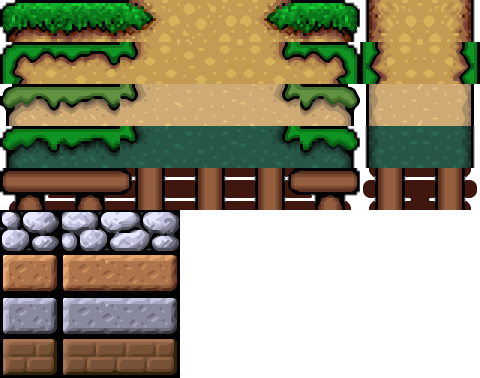
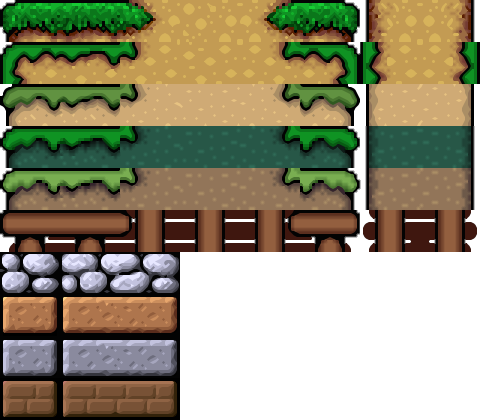
Added level6

diff --git a/levels.js b/levels.js
@@ -44,7 +44,7 @@ var level1 = {
     ],
     startPosition: {x: 2, y: 2},
     backgroundType: 4,
-    terrainType: 6,
+    terrainType: 7,
     pipeColor: 0,
     liquidType: 0,
     tileTint: 0,
@@ -70,7 +70,7 @@ var level2 = {
          "░░░░░░░░░░░░░░░░░░▓▓▓░░░░░▓▓▓▓▓░░░░░░░░░   ░░░░░░░░▓▓▓░░░▓▓▓░░░░░░░░░░░░░░░░░░░░▓▓▓░░▓▓▓▓░░▓▓▓░░░░▓▓▓▓▓▓▓░░░░░░░░░░░░▓▓▓▓░░░░░░░░▓▓▓░░░░▓░░░░░░░░░░░░░░░░▓▓▓▓▓▓▓▓░░░░░░░░░░░░░░░░░░░░░░░░░░░░░░░░░░░░░░░░░░░░░  │┇    │┇│┇  │┇    │┇│┇   ░",  
     ],
     startPosition: {x: 2, y: -1},
-    terrainType: 6,
+    terrainType: 7,
     backgroundType: 4,
     pipeColor: 4,
     liquidType: 1,
@@ -133,7 +133,7 @@ level3 = {
       ],
     startPosition: {x: 3, y: 8},
     backgroundType: 5,
-    terrainType: 7,
+    terrainType: 8,
     pipeColor: 1,
     liquidType: 2,
     tileTint: 0,
@@ -162,7 +162,7 @@ level3 = {
       ],
     startPosition: {x: 7, y: 3},
     backgroundType: 5,
-    terrainType: 7,
+    terrainType: 8,
     pipeColor: 1,
     liquidType: 2,
     tileTint: 0,
@@ -178,10 +178,10 @@ level3 = {
       "                                                                                                 ♥             ♠                               ○                     ",
       "                                                                                                 □             ◙                            ○  ○                     ",
       "                                      ♠                              ○○○○                                                                ○  ○  ○                     ",
-      "                          ○○○        ◙◙◙                                           ₼   ?  ♠       ♣  %#                                  ○  ○                        ",
+      "                          ○○○        ◙◙◙                                           ₼      ♠       ♣  %#                                  ○  ○                        ",
       "                                                            %#                     XX ╒╕  ◙◙      □  %%#                                 ○     ₼                     ",
       "                                   ▐         ▐ ₼            %#               ₼        │┇             %%#       ₼                            ₼  X              ▐      ",
-      "      ▐             ▐ ●ψ   ▐       ▐         ▐ X  ₼  ψ     %##     ψ?    ╒╕  XX       │┇             %%#       X      ╒╕                 ₼  X  X             ▐▐      ",
+      "      ▐             ▐ ●ψ   ▐       ▐         ▐ X  ₼  ψ     %##     ψ     ╒╕  XX       │┇             %%#       X      ╒╕                 ₼  X  X             ▐▐      ",
       "     ▐▐      ╒╕    ▐▐ ◙╒╕  ▐   ╒╕ ▐▐ ◙◙◙    ₼▐▐   X  ╒╕    %##▐    ╒╕    │┇ ▐    ₼    │┇           □ %%#▐    ₼ X      │┇╒╕               X  X                ▐▐  ╒╕  ",
       "     ▐▐    ╒╕│┇    ▐▐▐ │┇  ▐   │┇ ▐▐        X▐▐      │┇ ▐  %##▐    │┇  ╒╕│┇ ▐▐  XX ▐  │┇ ▐▐         ▐%%#▐    X X╒╕    │┇│┇ ▐             X ▐   ▐  ╒╕  ▐      ▐▐  │┇  ",
       "     ▐▐    │┇│┇    ▐▐▐ │┇ ▐▐   │┇ ▐▐ ▐   ₼   ▐▐    ▐ │┇ ▐▐ %##▐ ▐  │┇  │┇│┇ ▐▐    ▐▐  │┇ ▐▐         ▐%%#▐  ₼ X X│┇    │┇│┇ ▐▐          ▐   ▐  ▐▐  │┇  ▐ E    ▐▐▐ │┇  ",
@@ -219,12 +219,64 @@ level3 = {
       ],
     startPosition: {x: 23, y: 3},
     backgroundType: 6,
-    terrainType: 6,
+    terrainType: 7,
     pipeColor: 4,
     liquidType: 2,
     tileTint: 0,
     pipes: [      
       {entrance: {x:  44, y: 7, direction: 0}, exit: {x: 24, y: 7, direction: 0, level: "level5"}},
+    ]
+  };
+
+  level6 = { 
+    grid: [
+      "              ♠                                                                                                                              ",
+      "              ◙                                       ₼  ▒▒           ○○○   ○○○                                 ○○○○○                        ",
+      "                          ○○○○                      ▒▒▒▒▒▒▒                                      ψ?   ã               ψ                      ",
+      "                     ▐                              ▒▒▒▒▒▒▒             ▐                ♪ ♪   ψ?╒╕   ◙               ╒╕ψ         ▐          ",
+      "        ▐      ■■■  ▐▐                              ▒▒▒▒▒▒▒            ▐▐                      ╒╕│┇         ▐         │┇╒╕        ▐   ▐      ",
+      " ▐      ▐▐          ▐▐           ψ    ♠     ψ?   ▐  ▒▒▒▒▒▒▒₼      ▐ ₼ ♥▐▐ ₼   ♣ ₼     ₼        │┇│┇      ▐  ▐         │┇│┇       ▐▐   ▐▐     ",
+      " ▐▐   ▐ ▐▐ ■■■      ▐▐ ψ?        ╒╕   ◙◙◙   ╒╕   ▐▐ ▒▒▒▒▒░░░░     ▐ ₪ □▐▐ ₪   □ ₪   ₪₪₪       ₪₪₪₪₪₪     ▐ ▐▐ ₪♪♪♪♪♪♪♪₪₪₪₪♪      ▐▐ ▐ ▐▐     ",
+      " ▐▐   ▐ ▐▐        w ▐▐ ╒╕      ╒╕│┇     ▐▐  │┇   ▐▐ ▒▒▒▒▒░░░░     ▐ ₪  ▐▐ ₪     ₪                        ▐ ▐▐ ₪                  ▐▐ ▐ ▐▐ ╒╕  ",
+      " ▐▐   ▐ ▐▐       ‡░░░░░│┇   ▐  │┇│┇    ▐▐▐  │┇  ▐▐▐ ▒▒▒▒░░░░░ w   ▐▐₪  ▐▐ ₪   ▐ ₪▐▐             ▐        ▐ ▐▐ ₪♥                 ▐▐ ▐ ▐▐ │┇  ",
+      " ▐▐   ▐ ▐▐     ░░░░░░░░░░░‡ ▐▐ │┇│┇    ▐▐▐  │┇  ▐▐▐ ▒▒▒▒░░░░░▒▒▒▒▒▐▐₪  ▐▐ ₪   ▐▐₪▐▐             ▐▐       ▐ ▐▐ ₪◙               þ ▐▐ ▐ ▐▐ │┇  ",
+      " ▐▐   ▐ ▐▐w ‡░░░░░░░░░░░░░░ ▐▐ │┇│┇ ∩w ▐▐▐  │┇  ▐▐▐‡▒w ▒░░░░░▒▒▒▒▒▐▐₪w ▐▐‡₪w ‡▐▐₪▐▐ w   ♪ ♪ ♪ ‡ ▐▐‡w  ♪  ▐ ▐▐ ₪      w    w  ₪ þ‡▐▐ ▐ ▐▐‡│┇  ",
+      "░░░░░░░░░░░░░░░░░░░░░░░░░░░░░░░░░░░░░░░░░░░░░░░░░░░░░░░░░░░░░▒▒░░░░░░░░░░░░░░░░░░░░░░░░       ░░░░░░░   ░░░░░░░  ░░ ‡░░‡  ░░░░░░░░░░░░░░░░░░░",
+      "░░░░░░░░░░░░░░░░░░░░░░░░░░░░░░░░░░░░░░░░░░░░░░░░░░░░░░░░░░░░░░░░░░░░░░░░░░░░░░░░░░░░░░░░     ░░░░░░░░░ ░░░░░░░░ ░░░░░░░░░░░░░░░░░░░░░░░░░░░░░"     
+      ],
+    startPosition: {x: 7, y: 3},
+    backgroundType: 2,
+    terrainType: 3,
+    pipeColor: 2,
+    liquidType: 2,
+    tileTint: 1,
+    pipes: [
+    ]
+  };
+
+  level6b = { 
+    grid: [
+      "        ○                   ♠           ○         ",
+      "       ○○○                  ◙          ○○○        ",
+      "       ○○○                             ○○○        ",
+      "        ○                               ○         ",
+      "                 ▒▒▒▒▒▒▒                          ",
+      "     ▐       ‡▒▒▒▒▒▒▒▒▒▒                          ",
+      "  ╒╕ ▐▐ ♪ ▐ ▒▒▒▒▒▒▒ww▒▒▒       ▐            ▐     ",
+      "  │┇ ▐▐  ▐▐ ▒▒▒▒▒▒░░░░▒▒▒▒▒ ♪ ▐▐  ♪  ▐  ♪  ▐▐ ╒╕  ",
+      "  │┇ ▐▐  ▐▐ ▒▒▒▒▒▒░░░░▒▒▒▒▒   ▐▐     ▐   ▐ ▐▐ │┇  ",
+      "  │┇ ▐▐ww▐▐‡▒▒▒▒▒▒░░░░▒▒▒▒▒  ▐▐▐ ₼   ▐   ▐ ▐▐ │┇  ",
+      "░░░░░░░░░░░░░░www▒░░░░░▒▒▒▒‡ ▐▐▐ X ‡ ▐ ww▐‡▐▐ │┇  ",
+      "░░░░░░░░░░░░░░░░░░░░░░░▒▒▒░░░░░░░░░░░░░░░░░░░░░░░░",
+      "░░░░░░░░░░░░░░░░░░░░░░░░░░░░░░░░░░░░░░░░░░░░░░░░░░"
+      ],
+    startPosition: {x: 7, y: 3},
+    backgroundType: 2,
+    terrainType: 3,
+    pipeColor: 2,
+    liquidType: 2,
+    tileTint: 1,
+    pipes: [
     ]
   };
 
@@ -236,7 +288,8 @@ const AllLevels ={
     level4: level4,
     level4b: level4b,
     level5: level5,
-    level5b: level5b
+    level5b: level5b,
+    level6: level6,
 };
   
     function parseTerrainWall(c, u, l, r, ul, ur, x, y){
@@ -426,7 +479,7 @@ const AllLevels ={
     function parseLevel(levelData){
         let level = new Array(levelData.grid[0].length);
         let parser = parseTerrainWall;
-        if (levelData.terrainType >= 5)
+        if (levelData.terrainType >= 6)
             parser = parseDungeonWall;
 
         //this will convert the level walls to draw the grass and corners 

diff --git a/index.html b/index.html
@@ -705,5 +705,6 @@ function initGame(){
 </head>
 <body onload="initGame()">
 	<canvas id="MyCanvas" width="1200" height="546" style="border:1px solid #000000; background-color:#000000;"></canvas>
+	<img src = "https://lefterise.github.io/mario/graphics/screenshot.png" hidden></img>
 </body>
 </html>
